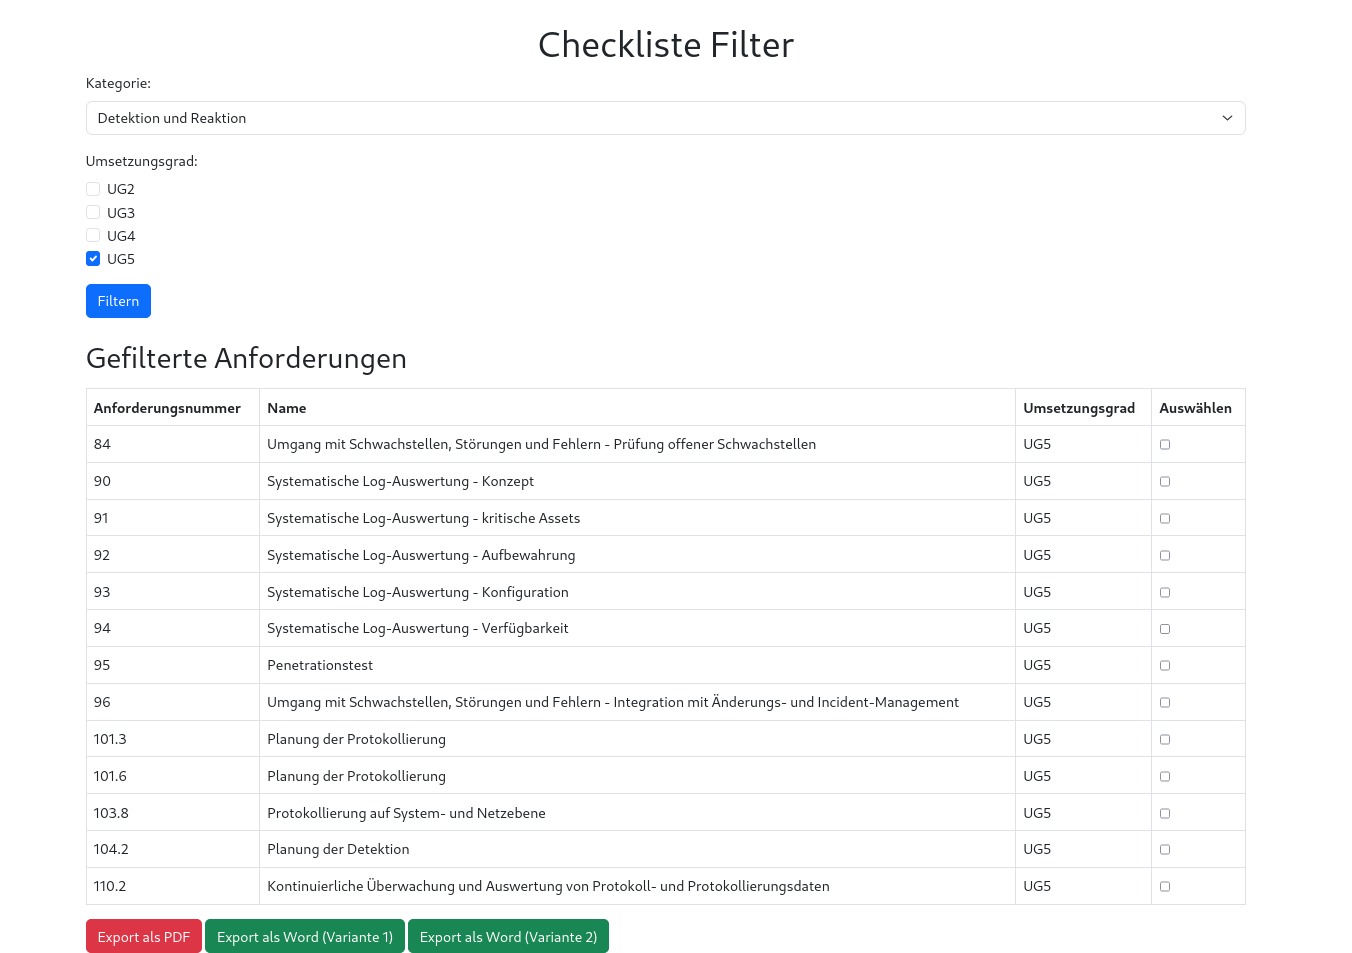
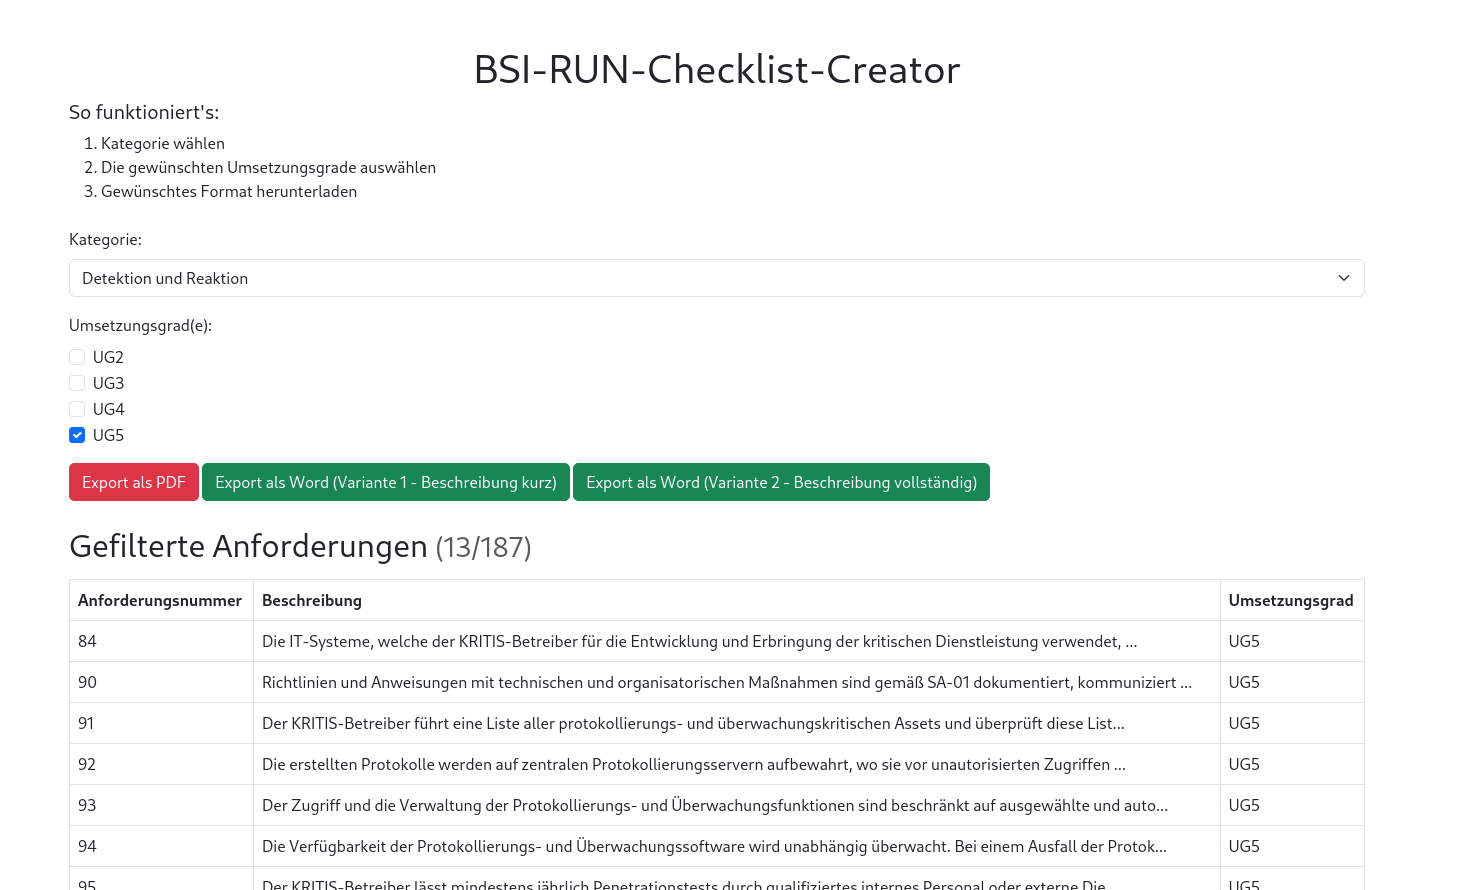
improved readme and new screenshot

diff --git a/README.md b/README.md
@@ -9,6 +9,19 @@ Der BSI-RUN-Checklist-Creator ist ein Tool, das Betreibern kritischer Infrastruk
 - Sortieren und Organisieren der Anforderungen zur Erreichung der Reifegrade.
 - Verbesserung der Einhaltung von KRITIS-Anforderungen.
 
+## Beispiele
+Hier ist ein Screeshot der Anwendung:
+
+![Screenshot BSI-RUN-Checklist-Creator](examples/SzA-UG5.png)
+
+Beispiele der exportierten Formate finden Sie im [examples-Verzeichnis](examples/).
+
+## Live anschauen und nutzen
+
+Eine Implementierung der Anwendung ist unter:
+
+[https://strauch-itsec.de/BSI-RUN-Checklist-Creator/](https://strauch-itsec.de/BSI-RUN-Checklist-Creator/)
+
 ## Lizenz
 Dieses Projekt ist unter der MIT-Lizenz lizenziert. Siehe die [LICENSE](LICENSE)-Datei für Details.
 
